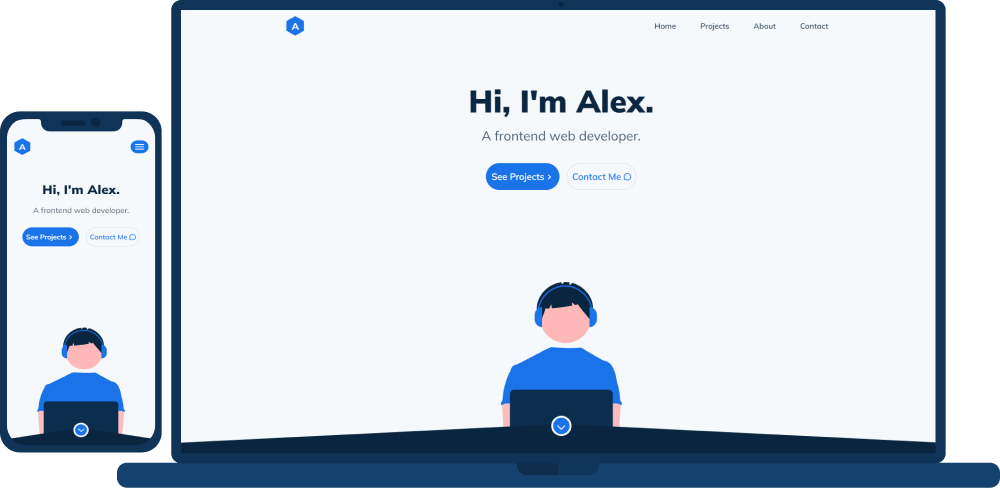
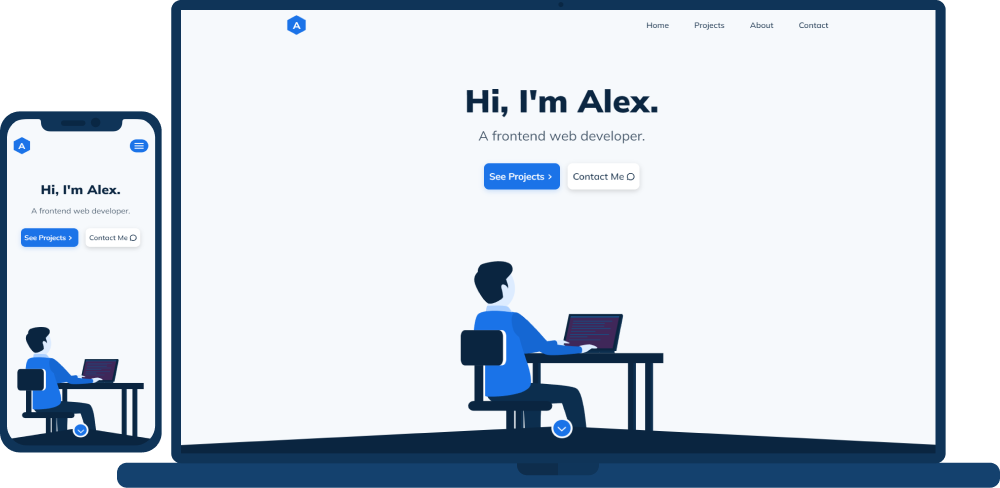
replaced the hero svg with another one

diff --git a/style.css b/style.css
@@ -218,7 +218,8 @@ nav {
 }
 
 .nav-fixed {
-  position: fixed;
+  position: sticky;
+  top: 0;
   width: 100%;
   animation: nav-fixed 0.3s ease forwards;
 }
@@ -364,7 +365,7 @@ nav {
 }
 
 #hero-svg {
-  width: 25rem;
+  width: 40rem;
   height: auto;
   z-index: -1;
 }
@@ -395,7 +396,7 @@ nav {
 
 .hero-cta {
   padding: 1.5rem 1rem;
-  border-radius: 10rem;
+  border-radius: 1rem;
   display: inline-flex;
   align-items: center;
   width: fit-content;
@@ -404,34 +405,33 @@ nav {
 }
 
 .hero-projects-cta {
-  border: 1px solid var(--theme-white-accent-color);
   background: var(--theme-white-accent-color);
   color: var(--white-color);
+  box-shadow: 0px 4px 10px #1a73e836;
 }
 
 .hero-contact-cta {
-  border: 1px solid #dadce0;
-  color: var(--theme-white-accent-color);
+  color: var(--theme-white-color-1);
+  background: var(--white-color);
+  box-shadow: 0px 4px 10px rgba(0, 0, 0, .15);
   margin-left: 1.3rem;
 }
 
 .hero-contact-cta svg path {
-  stroke: var(--theme-white-accent-color);
+  stroke: var(--theme-white-color-1);
   transition: 0.2s ease all;
 }
 
 .hero-projects-cta:hover {
   background: #1b5bc4;
-  border-color: #1b5bc4;
 }
 
 .hero-contact-cta:hover svg path {
-  stroke: #174ea6;
+  stroke: var(--theme-white-accent-color);
 }
 
 .hero-contact-cta:hover {
-  color: #174ea6;
-  border-color: var(--theme-white-accent-color);
+  color: var(--theme-white-accent-color);
 }
 
 .hero-cta-text {
@@ -1196,7 +1196,7 @@ footer p {
   }
 
   #hero-svg {
-    width: 23rem;
+    width: 36rem;
   }
 
   .hero-svg-icon {
@@ -1549,9 +1549,9 @@ footer p {
   }
 }
 
-@media (max-height: 800px) {
+@media (max-height: 850px) {
   #hero-svg {
-    width: 20rem;
+    width: 32rem;
   }
 
   .hero-presentation {
@@ -1559,21 +1559,21 @@ footer p {
   }
 }
 
-@media (max-height: 700px) {
+@media (max-height: 750px) {
   #hero-svg {
-    width: 18rem;
+    width: 28rem;
   }
 }
 
 @media (max-height: 600px) {
   #hero-svg {
-    width: 16rem;
+    width: 24rem;
   }
 }
 
 @media (max-height: 500px) {
   #hero-svg {
-    width: 11rem;
+    width: 16rem;
   }
 
   .contact-me-wrapper {

diff --git a/index.html b/index.html
@@ -16,8 +16,7 @@
     <script type="module" src="js/app.js" defer></script>
   </head>
   <body>
-    <header id="header" class="nav-link-observer-target">
-      <nav>
+      <nav id="nav">
         <div class="app-logo hero-section-anim-element" title="logo">
           <a href="/" class="logo">
             <span>A</span>
@@ -67,7 +66,7 @@
             <li
               class="nav-link nav-about-link nav-link-target hero-section-anim-element"
             >
-              <a href="#header" class="nav-link-target"> Home </a>
+              <a href="#hero" class="nav-link-target"> Home </a>
             </li>
 
             <li
@@ -89,7 +88,6 @@
           </ul>
         </div>
       </nav>
-    </header>
 
     <main>
       <section id="hero" class="hero-section">
@@ -928,7 +926,7 @@
 
     <footer>
       <p>&copy; 2021 Alexandru Albici</p>
-      <a href="#header" class="footer-go-up-button" title="to top">
+      <a href="#hero" class="footer-go-up-button" title="to top">
         <svg
           class="button-icon"
           xmlns="https://www.w3.org/2000/svg"

diff --git a/js/app.js b/js/app.js
@@ -65,11 +65,9 @@ copyButton.forEach((button) =>
 let heroSectionObserverCallback = function (entries) {
   let [entry] = entries;
   if (entry.intersectionRatio > 0) {
-    heroSection.classList.remove("hero-section-margin");
     nav.classList.remove("nav-fixed");
     nav.classList.remove("theme-dark-nav-fixed");
   } else {
-    heroSection.classList.add("hero-section-margin");
 
     nav.classList.add("nav-fixed");
     if (
@@ -168,6 +166,7 @@ const handleSubmit = (e) => {
 
       const messageSent = document.createElement("div");
       messageSent.classList.add("message-sent");
+      messageSent.classList.add('success');
       messageSent.textContent = "Message Sent!";
       body.appendChild(messageSent);
 
